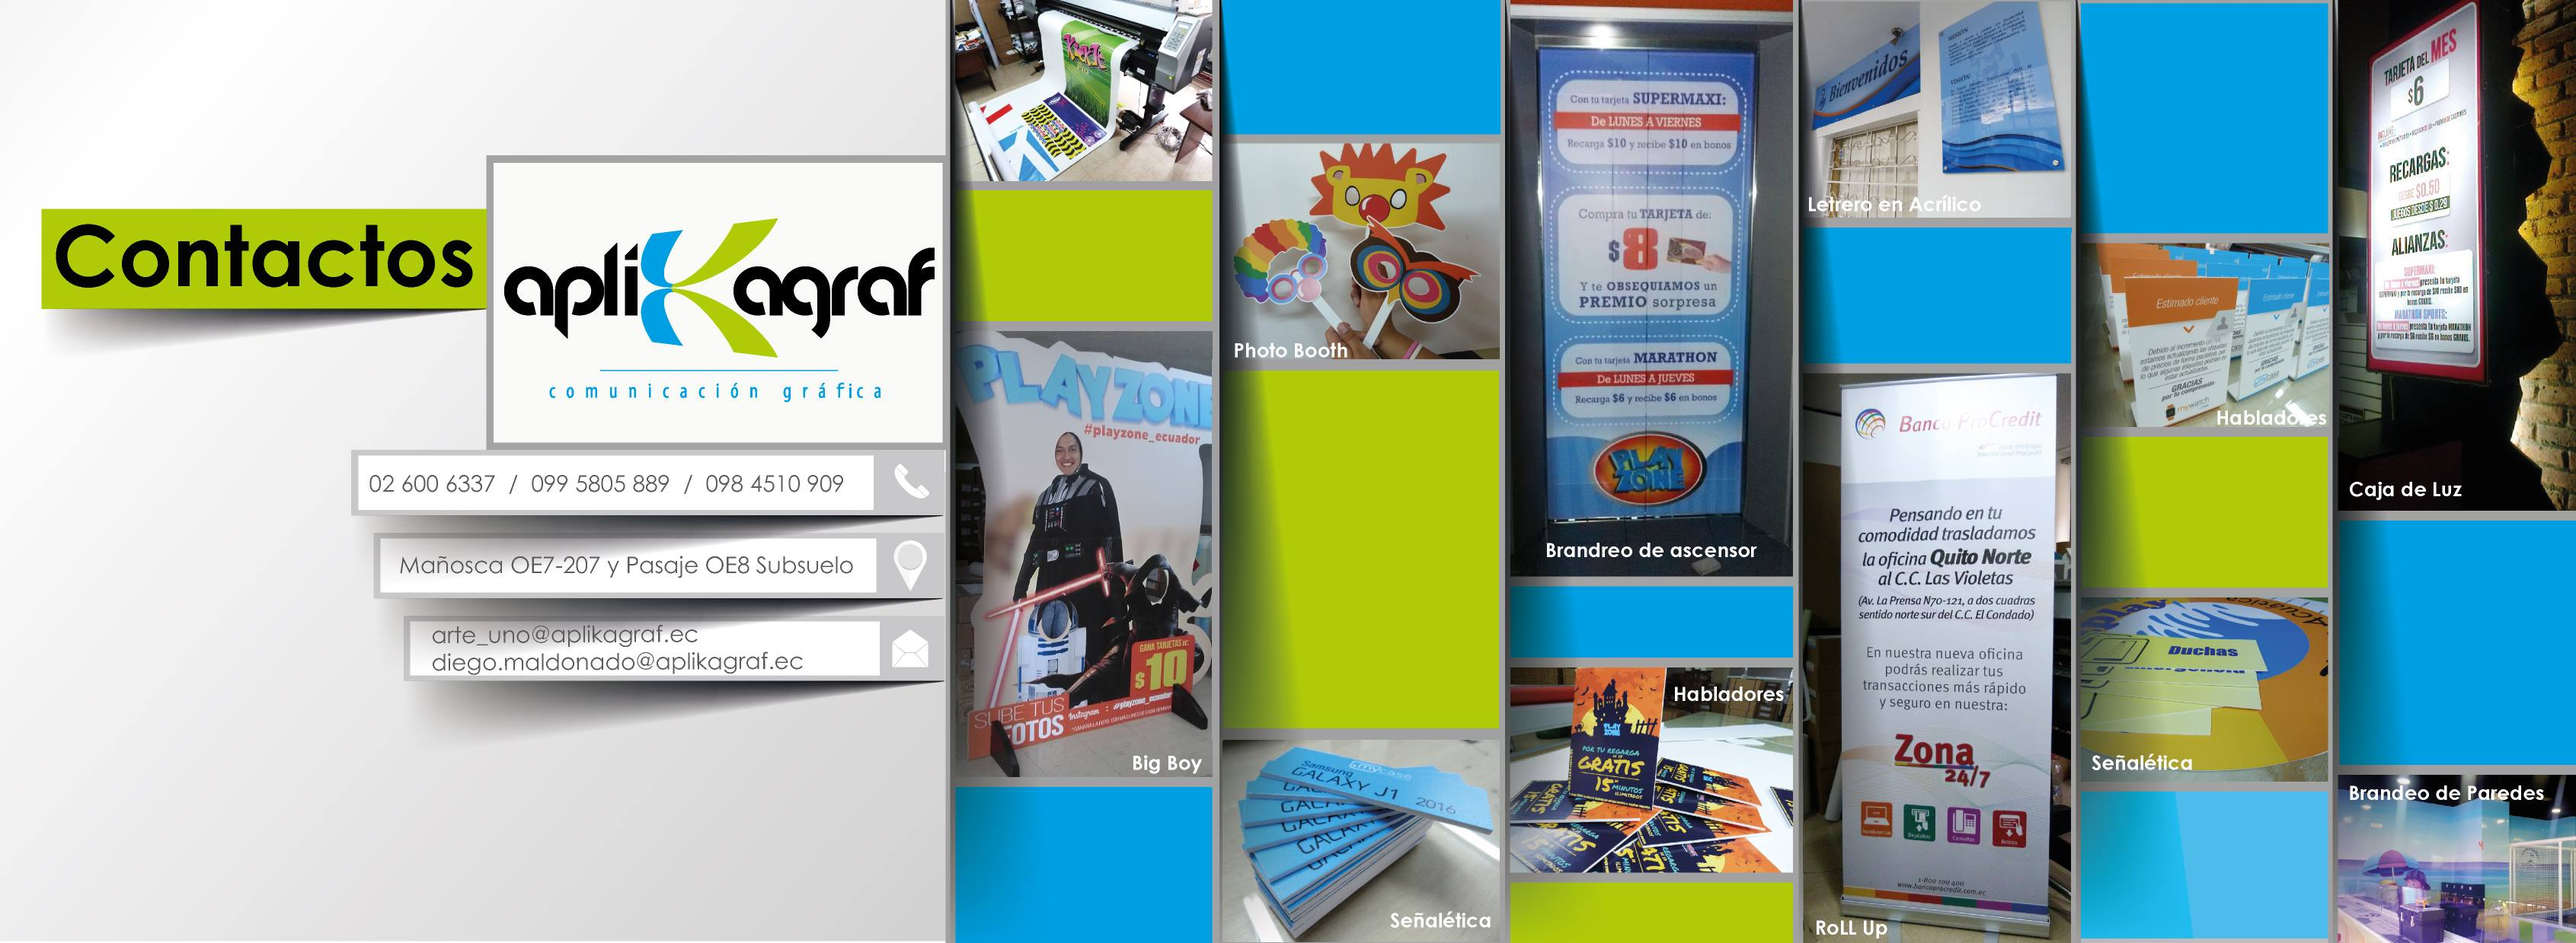
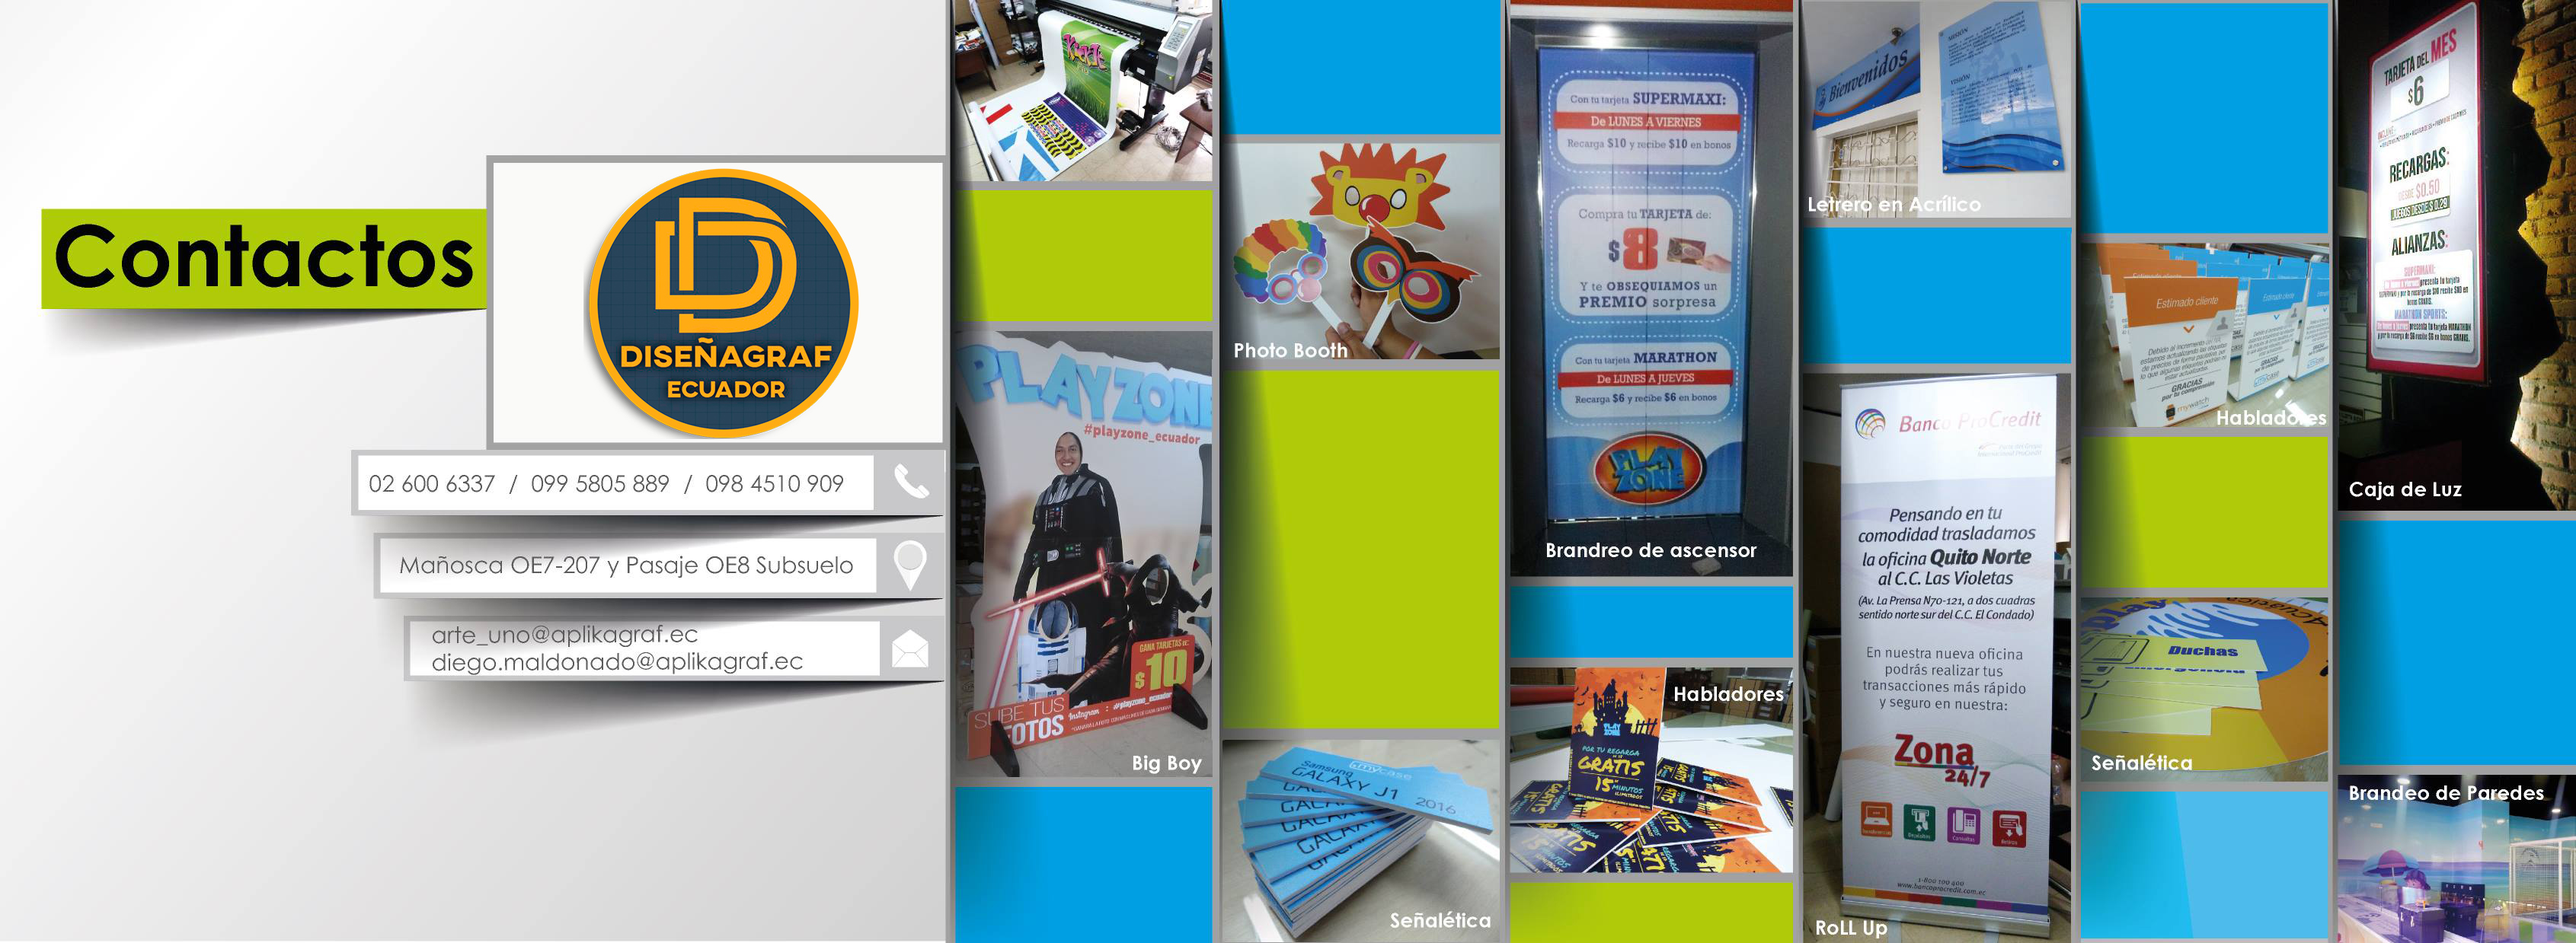
Rebranding
Modificaciones por rebranding

Changed region(s): [[0.1863, 0.184, 0.3726, 0.4907]]

diff --git a/index.html b/index.html
@@ -8,7 +8,7 @@ License URL: http://creativecommons.org/licenses/by/3.0/
 <html lang="zxx">
 
 <head>
-    <title>ApliKagraf</title>
+    <title>Diseñagraf EC</title>
     <!-- Meta tag Keywords -->
     <meta name="viewport" content="width=device-width, initial-scale=1">
     <meta charset="UTF-8" />
@@ -180,7 +180,7 @@ License URL: http://creativecommons.org/licenses/by/3.0/
                 <div class="col-md-3 logo_agile">
                     <h1 class="text-center">
                         <a href="index.html" class="font-weight-bold font-italic">
-                            <img src="images/logo2.jpg" class="img-fluid"> &nbsp; &nbsp ApliKagraf
+                            <img src="images/logo2.png" class="img-fluid"> &nbsp; &nbsp Diseñagraf EC
                         </a>
                     </h1>
                 </div>
@@ -372,7 +372,7 @@ License URL: http://creativecommons.org/licenses/by/3.0/
         <div class="container py-xl-4 py-lg-2">
             <!-- tittle heading -->
             <h3 class="tittle-w3l text-center mb-lg-5 mb-sm-4 mb-3">
-                <iframe width="70%" height="315" src="https://www.youtube.com/embed/oDQWOsUUB6w" title="YouTube video player" frameborder="0" allow="accelerometer; autoplay; clipboard-write; encrypted-media; gyroscope; picture-in-picture" allowfullscreen></iframe></h3>
+                <iframe width="70%" height="315" src="https://www.youtube.com/embed/yvXiH1nFAUs" title="YouTube video player" frameborder="0" allow="accelerometer; autoplay; clipboard-write; encrypted-media; gyroscope; picture-in-picture" allowfullscreen></iframe></h3>
             <br>
             <br>
             <h3 class="tittle-w3l text-center mb-lg-5 mb-sm-4 mb-3">
@@ -468,7 +468,7 @@ License URL: http://creativecommons.org/licenses/by/3.0/
         <div class="footer-top-first">
             <div class="container py-md-5 py-sm-4 py-3">
                 <!-- footer first section -->
-                <h2 class="footer-top-head-w3l font-weight-bold mb-2">ApliKagraf</h2>
+                <h2 class="footer-top-head-w3l font-weight-bold mb-2">Diseñagraf EC</h2>
                 <p class="footer-main mb-4">
                     Para desarrollar de forma eficiente todos los requerimientos de creación, planificación y comunicación, hemos elaborado una metodología propia denominada BETA, inspirada en nuestro nombre corporativo. Que significa BUSCAR, EVALUAR, TRASFORMAR y ACCIONAR
                     y tiene como propósito generar resultados eficaces en los diferentes procesos de comunicación que precisan nuestros clientes. Sabemos que cada cliente es diferente y a través de esta técnica, que articula de manera complementaria 4
@@ -575,7 +575,7 @@ License URL: http://creativecommons.org/licenses/by/3.0/
                             <li class="mb-3">
                                 <i class="fas fa-mobile"></i> 099 580 5889 </li>
                             <li class="mb-3">
-                                <i class="fas fa-envelope-open"></i>aplikagraf@hotmail.com</li>
+                                <i class="fas fa-envelope-open"></i>diseñagraf@hotmail.com</li>
                         </ul>
                     </div>
                     <div class="col-md-3 col-sm-6 footer-grids w3l-agileits mt-md-0 mt-4">
@@ -645,7 +645,7 @@ License URL: http://creativecommons.org/licenses/by/3.0/
     <!-- copyright -->
     <div class="copy-right py-3">
         <div class="container">
-            <p class="text-center text-white">© 2021 ApliKagraf. All rights reserved | Design by
+            <p class="text-center text-white">© 2021 Diseñagraf EC. All rights reserved | Design by
                 <a href="http://w3layouts.com"> W3layouts.</a>
             </p>
         </div>

diff --git a/contact.html b/contact.html
@@ -180,7 +180,7 @@ License URL: http://creativecommons.org/licenses/by/3.0/
                 <div class="col-md-3 logo_agile">
                     <h1 class="text-center">
                         <a href="index.html" class="font-weight-bold font-italic">
-                            <img src="images/logo2.jpg" class="img-fluid"> &nbsp; &nbsp ApliKagraf
+                            <img src="images/logo2.png" class="img-fluid"> &nbsp; &nbsp Diseñagraf EC
                         </a>
                     </h1>
                 </div>
@@ -361,7 +361,7 @@ License URL: http://creativecommons.org/licenses/by/3.0/
                         </div>
                         <h4 class="font-weight-bold mt-sm-4 mt-3 mb-3">Correo Electrónico</h4>
                         <p>
-                            <a href="mailto:info@example.com">arte_uno@aplikagraf.ec</a>
+                            <a href="mailto:info@example.com">arte_uno@disenagraf.ec</a>
 
                         </p>
                     </div>
@@ -467,7 +467,7 @@ License URL: http://creativecommons.org/licenses/by/3.0/
                             <li class="mb-3">
                                 <i class="fas fa-mobile"></i> 099 580 5889 </li>
                             <li class="mb-3">
-                                <i class="fas fa-envelope-open"></i>aplikagraf@hotmail.com</li>
+                                <i class="fas fa-envelope-open"></i>disenagraf@hotmail.com</li>
                         </ul>
                     </div>
                     <div class="col-md-3 col-sm-6 footer-grids w3l-agileits mt-md-0 mt-4">
@@ -477,12 +477,12 @@ License URL: http://creativecommons.org/licenses/by/3.0/
                             <div class="social">
                                 <ul>
                                     <li>
-                                        <a class="icon fb" href="https://www.facebook.com/Aplikagraf">
+                                        <a class="icon fb" href="https://www.facebook.com/DisenagrafEC">
                                             <i class="fab fa-facebook-f"></i>
                                         </a>
                                     </li>
                                     <li>
-                                        <a class="icon tw" href="https://www.instagram.com/aplikagraf_ec/">
+                                        <a class="icon tw" href="https://www.instagram.com/disenagraf_ec/">
                                             <i class="fab fa-instagram"></i>
                                         </a>
                                     </li>
@@ -537,7 +537,7 @@ License URL: http://creativecommons.org/licenses/by/3.0/
     <!-- copyright -->
     <div class="copy-right py-3">
         <div class="container">
-            <p class="text-center text-white">© 2021 ApliKagraf. All rights reserved | Design by
+            <p class="text-center text-white">© 2021 Diseñagraf EC. All rights reserved | Design by
                 <a href="http://w3layouts.com"> W3layouts.</a>
             </p>
         </div>

diff --git a/product.html b/product.html
@@ -181,7 +181,7 @@ License URL: http://creativecommons.org/licenses/by/3.0/
                 <div class="col-md-3 logo_agile">
                     <h1 class="text-center">
                         <a href="index.html" class="font-weight-bold font-italic">
-                            <img src="images/logo2.jpg" class="img-fluid"> &nbsp; &nbsp ApliKagraf
+                            <img src="images/logo2.png" class="img-fluid"> &nbsp; &nbsp Diseñagraf EC
                         </a>
                     </h1>
                 </div>
@@ -900,7 +900,7 @@ License URL: http://creativecommons.org/licenses/by/3.0/
                             <li class="mb-3">
                                 <i class="fas fa-mobile"></i> 099 580 5889 </li>
                             <li class="mb-3">
-                                <i class="fas fa-envelope-open"></i>aplikagraf@hotmail.com</li>
+                                <i class="fas fa-envelope-open"></i>diseñagrafec@hotmail.com</li>
                         </ul>
                     </div>
                     <div class="col-md-3 col-sm-6 footer-grids w3l-agileits mt-md-0 mt-4">
@@ -910,12 +910,12 @@ License URL: http://creativecommons.org/licenses/by/3.0/
                             <div class="social">
                                 <ul>
                                     <li>
-                                        <a class="icon fb" href="https://www.facebook.com/Aplikagraf">
+                                        <a class="icon fb" href="https://www.facebook.com/DisenagrafEC">
                                             <i class="fab fa-facebook-f"></i>
                                         </a>
                                     </li>
                                     <li>
-                                        <a class="icon tw" href="https://www.instagram.com/aplikagraf_ec/">
+                                        <a class="icon tw" href="https://www.instagram.com/disenagraf_ec/">
                                             <i class="fab fa-instagram"></i>
                                         </a>
                                     </li>
@@ -970,7 +970,7 @@ License URL: http://creativecommons.org/licenses/by/3.0/
     <!-- copyright -->
     <div class="copy-right py-3">
         <div class="container">
-            <p class="text-center text-white">© 2021 ApliKagraf. All rights reserved | Design by
+            <p class="text-center text-white">© 2021 Diseñagraf EC. All rights reserved | Design by
                 <a href="http://w3layouts.com"> W3layouts.</a>
             </p>
         </div>

diff --git a/about.html b/about.html
@@ -180,7 +180,7 @@ License URL: http://creativecommons.org/licenses/by/3.0/
                 <div class="col-md-3 logo_agile">
                     <h1 class="text-center">
                         <a href="index.html" class="font-weight-bold font-italic">
-                            <img src="images/logo2.jpg" class="img-fluid"> &nbsp; &nbsp ApliKagraf
+                            <img src="images/logo2.png" class="img-fluid"> &nbsp; &nbsp Diseñagraf EC
                         </a>
                     </h1>
                 </div>
@@ -479,7 +479,7 @@ License URL: http://creativecommons.org/licenses/by/3.0/
                             <li class="mb-3">
                                 <i class="fas fa-mobile"></i> 099 580 5889 </li>
                             <li class="mb-3">
-                                <i class="fas fa-envelope-open"></i>aplikagraf@hotmail.com</li>
+                                <i class="fas fa-envelope-open"></i>disenagraf@hotmail.com</li>
                         </ul>
                     </div>
                     <div class="col-md-3 col-sm-6 footer-grids w3l-agileits mt-md-0 mt-4">
@@ -489,12 +489,12 @@ License URL: http://creativecommons.org/licenses/by/3.0/
                             <div class="social">
                                 <ul>
                                     <li>
-                                        <a class="icon fb" href="https://www.facebook.com/Aplikagraf">
+                                        <a class="icon fb" href="https://www.facebook.com/DisenagrafEC">
                                             <i class="fab fa-facebook-f"></i>
                                         </a>
                                     </li>
                                     <li>
-                                        <a class="icon tw" href="https://www.instagram.com/aplikagraf_ec/">
+                                        <a class="icon tw" href="https://www.instagram.com/disenagraf_ec/">
                                             <i class="fab fa-instagram"></i>
                                         </a>
                                     </li>
@@ -549,7 +549,7 @@ License URL: http://creativecommons.org/licenses/by/3.0/
     <!-- copyright -->
     <div class="copy-right py-3">
         <div class="container">
-            <p class="text-center text-white">© 2021 ApliKagraf. All rights reserved | Design by
+            <p class="text-center text-white">© 2021 Diseñagraf EC. All rights reserved | Design by
                 <a href="http://w3layouts.com"> W3layouts.</a>
             </p>
         </div>
